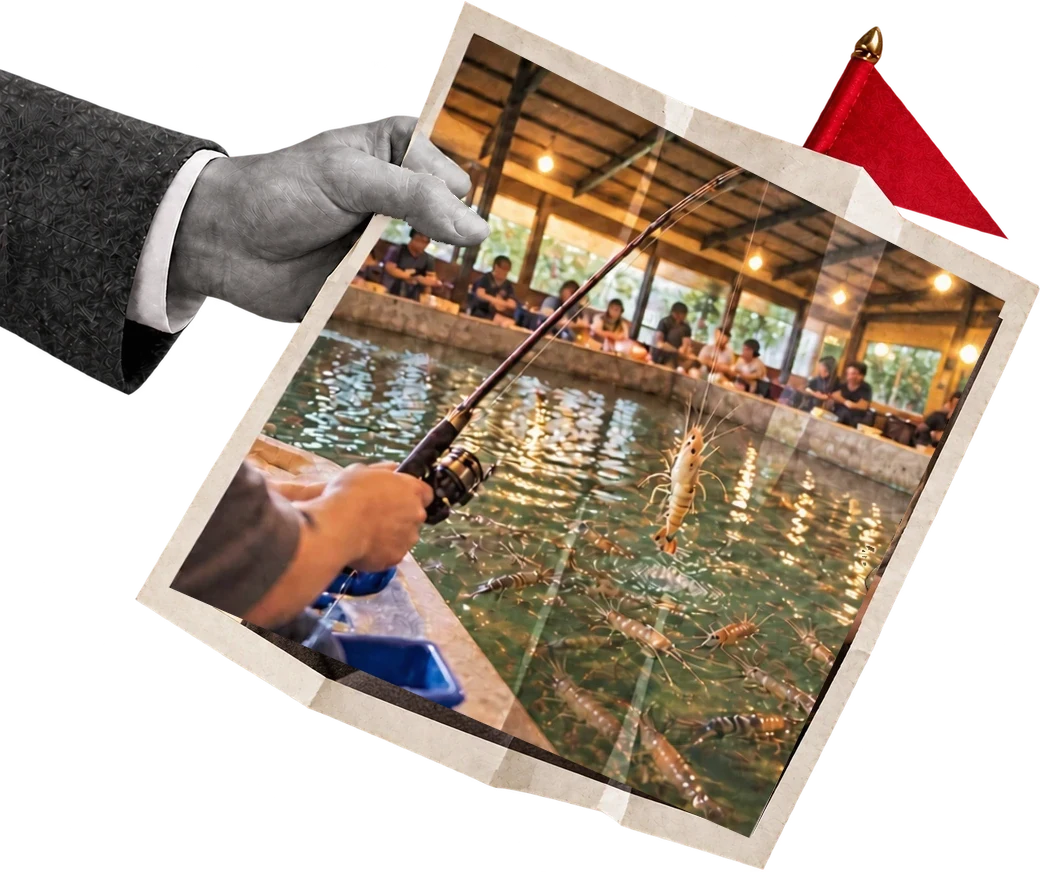
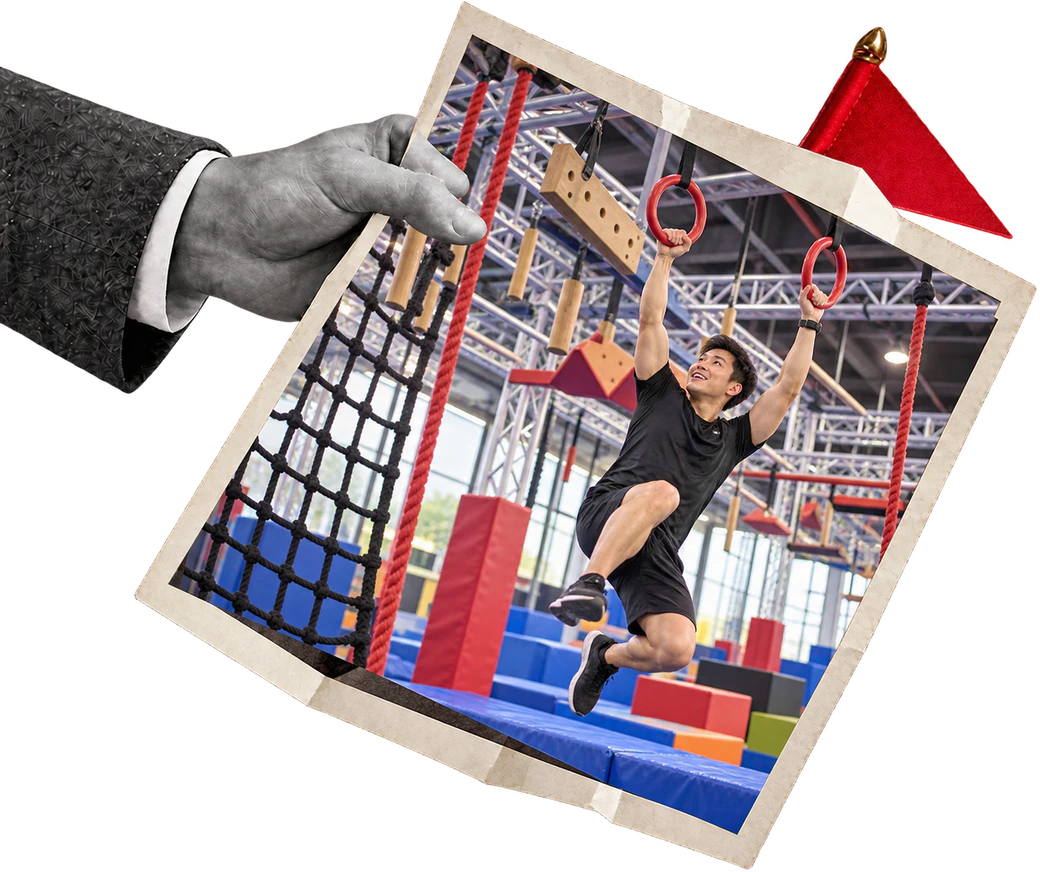
Update outing venues, artwork, and reviews

diff --git a/components/trip-showdown.tsx b/components/trip-showdown.tsx
@@ -24,7 +24,7 @@ import VotePlanSummary from "./vote-plan-summary";
 import StoreLinks from "./store-links";
 import VenueReviews from "./venue-reviews";
 import VillagerBook from "./villager-book";
-import { lazerTreksStore, villagerStore, zhishanFishingStore } from "@/lib/store-references";
+import { goodFoodStore, lazerTreksStore, ninjaStore } from "@/lib/store-references";
 import OpeningAnimation from "./opening-animation";
 import OutingLoading from "./outing-loading";
 import { openingHistory } from "@/lib/opening-history";
@@ -47,7 +47,7 @@ import {
 const planLine = (plan?: TripPlan) => plan?.title.replaceAll("\n", "");
 
 const PLAN_ART = [
-  { photo: OPENING_IMAGES.photoA, feast: OPENING_IMAGES.feastA, word: "悠閒" },
+  { photo: OPENING_IMAGES.photoA, feast: OPENING_IMAGES.feastA, word: "極限" },
   { photo: OPENING_IMAGES.photoB, feast: OPENING_IMAGES.feastB, word: "熱血" },
 ];
 
@@ -110,7 +110,7 @@ export default function TripShowdown() {
   }, [selected?.code]);
 
   const venues = selected?.code === "A"
-    ? [zhishanFishingStore, villagerStore]
+    ? [ninjaStore, goodFoodStore]
     : selected?.code === "B" ? [lazerTreksStore] : [];
   const actualVote = user ? votes[user.uid] : null;
   const votingOpen = isVotingOpen(catalog, now);
@@ -178,7 +178,7 @@ export default function TripShowdown() {
     savedPlan: actualVote ? catalog.plans[actualVote.planId] : undefined, draftPlan: selected,
     hasChanges: voteSynced && !!selected && dirty.current && !unchangedVote });
   const voteActionLabel = unchangedVote ? "已投票 ✓" : voteChange === "switch" ? "確認改票" : voteChange === "details" ? "更新選擇" : "確認並投票";
-  const planNoteLabel = "備註";
+  const planNoteLabel = "簡要備註";
   const summary = [
     "姓名：" + (user?.displayName || ""),
     "主方案：" + (selected?.title || ""),
@@ -221,7 +221,7 @@ export default function TripShowdown() {
           onFinish={finishIntro}
           date={catalog.settings.eventDate.slice(5).replace("-", ".")}
           plans={[
-            plans[0]?.[1].shortName || "釣趣派",
+            plans[0]?.[1].shortName || "極限體能派",
             plans[1]?.[1].shortName || "熱血對戰派",
           ]}
         />
@@ -234,9 +234,9 @@ export default function TripShowdown() {
         <header className="show-hero" data-ready={introReady && !intro}>
           <div className="hero-field" aria-hidden="true"><i className="hero-field-a" /><i className="hero-field-b" /></div>
           <div className="hero-stage">
-            <p className="hero-team hero-team-a"><small className="sd-micro">TEAM A</small><strong>{plans[0]?.[1].shortName || "釣趣派"}</strong><span>{planLine(plans[0]?.[1]) || "釣蝦＋港點午餐"}</span></p>
+            <p className="hero-team hero-team-a"><small className="sd-micro">TEAM A</small><strong>{plans[0]?.[1].shortName || "極限體能派"}</strong><span>{planLine(plans[0]?.[1]) || "忍者闖關＋好食在食堂"}</span></p>
             <div className="hero-poster">
-              <img className="hero-poster-img" src={HERO_POSTER} width={2272} height={804} alt="兩位老闆對決：左邊釣蝦港點的釣趣派，右邊雷射槍戰下午茶的熱血對戰派" fetchPriority="high" />
+              <img className="hero-poster-img" src={HERO_POSTER} width={2272} height={804} alt="兩位老闆對決：左邊忍者闖關與好食在食堂的極限體能派，右邊雷射槍戰下午茶的熱血對戰派" fetchPriority="high" />
             </div>
             <p className="hero-team hero-team-b"><small className="sd-micro">TEAM B</small><strong>{plans[1]?.[1].shortName || "熱血對戰派"}</strong><span>{planLine(plans[1]?.[1]) || "雷射槍戰＋飯店下午茶"}</span></p>
           </div>
@@ -252,7 +252,7 @@ export default function TripShowdown() {
               <span>預計 {catalog.settings.expectedVoters} 人</span>
             </p>
             <p className="hero-copy">
-              <span className="hero-clause">到底是釣蝦吃港點聚餐吸引人，</span><span className="hero-clause">還是雷射團戰享用飯店 Buffet 令人嚮往？</span>
+              <span className="hero-clause">到底是忍者闖關後吃台菜聚餐吸引人，</span><span className="hero-clause">還是雷射團戰享用飯店 Buffet 令人嚮往？</span>
               <span className="hero-copy-cta">看完行程，選一個你最想去的方案。</span>
             </p>
             <div className="hero-actions" ref={heroActionsRef}>
@@ -351,7 +351,7 @@ export default function TripShowdown() {
                     {venues.map(venue => <div key={venue.id}><span>{venue.name}</span><StoreLinks store={venue} compact /><VenueReviews id={venue.id} tone={selected.color} /></div>)}
                   </div>}
                   {selected.code === "A" && <details className="menu-details" open={menuOpen} onToggle={event => setMenuOpen(event.currentTarget.open)}>
-                    <summary>翻看村民食堂菜色與平日午餐（點圖可放大）</summary>
+                    <summary>翻看好食在食堂菜色與菜單（點圖可放大）</summary>
                     <VillagerBook />
                   </details>}
                   {sortedGroups(selected).map(([groupId, group]) => (
@@ -368,13 +368,13 @@ export default function TripShowdown() {
                   ))}
                   <label className="note-field">
                     {planNoteLabel}（選填）
-                    <small>沒有特別需求可以留白，只有你與主辦人看得到。</small>
+                    <small>有健康狀況或餐點需求再填，沒有可留白。</small>
                     <textarea
                       maxLength={1000}
-                      rows={3}
+                      rows={2}
                       value={draft.note}
                       disabled={saving || !votingOpen}
-                      placeholder={draft.planId === "B" ? "例如：團體活動需留意的狀況，或餐點需求…" : "例如：釣蝦需要協助，或有餐點需求…"}
+                      placeholder={draft.planId === "B" ? "例如：需留意的健康狀況或餐點需求。" : "例如：膝蓋舊傷，需調整關卡。"}
                       onChange={(event) => edit({ note: event.target.value })}
                     />
                     <span>{draft.note.length} / 1000</span>
@@ -501,7 +501,7 @@ export default function TripShowdown() {
             <p className="footer-kicker"><span>SEE YOU ON</span><b>{catalog.settings.eventDate.slice(5).replace("-", ".")}</b></p>
             <div className="footer-stage">
               <div className="footer-ribbons" aria-hidden="true">
-                <CautionTape tone="ink" className="tape-upper" words={[plans[0]?.[1].shortName || "釣趣派", planLine(plans[0]?.[1]) || "釣蝦＋港點午餐", "TEAM A"]} />
+                <CautionTape tone="ink" className="tape-upper" words={[plans[0]?.[1].shortName || "極限體能派", planLine(plans[0]?.[1]) || "忍者闖關＋好食在食堂", "TEAM A"]} />
                 <CautionTape reverse className="tape-lower" words={[plans[1]?.[1].shortName || "熱血對戰派", planLine(plans[1]?.[1]) || "雷射槍戰＋飯店下午茶", "TEAM B"]} />
               </div>
               <ShowLogo className="footer-lockup" />

diff --git a/lib/default-catalog.ts b/lib/default-catalog.ts
@@ -11,34 +11,34 @@ export const defaultCatalog: Catalog = {
   plans: {
     A: {
       code: "A",
-      title: "釣蝦＋村民食堂",
-      shortName: "釣趣派",
-      category: "釣趣派",
+      title: "忍者闖關\n＋好食在食堂",
+      shortName: "極限體能派",
+      category: "極限體能派",
       description:
-        "先在室內輕鬆釣蝦、比比誰的收穫最好，再一起前往附近的村民食堂享用平日港點午餐。",
-      priceNote: "釣蝦 1 小時 $400 起・村民食堂 $720＋10%",
+        "先由教練帶領挑戰體能王關卡，再自由練習喜歡的項目，活動結束後步行前往附近的好食在食堂享用午餐。",
+      priceNote: "體能王包班 成人 $1,200／人（6 人起）・好食在食堂依現場消費",
       color: "yellow",
-      tags: ["室內行程", "輕鬆釣蝦", "港式點心", "聚餐聊天"],
+      tags: ["室內行程", "教練帶領", "忍者闖關", "聚餐聊天"],
       schedule: [
         {
           time: "10:00",
-          title: "至善釣蝦場集合",
-          description: "台北市士林區至善路三段 13 號，自行前往。",
+          title: "忍者館集合",
+          description: "台北市信義區基隆路一段 25 號 1 樓，自行前往。",
         },
         {
-          time: "10:00–11:30",
-          title: "釣蝦體驗",
-          description: "釣蝦約 1.5 小時，輕鬆同樂。",
+          time: "10:00–12:00",
+          title: "體能王包班",
+          description: "90 分鐘教練教學與闖關，最後 30 分鐘自由練習。",
         },
         {
-          time: "11:30",
-          title: "準備前往餐廳",
-          description: "由釣蝦場出發前往附近用餐。",
+          time: "12:00",
+          title: "步行前往餐廳",
+          description: "從忍者館步行前往附近的好食在食堂。",
         },
         {
           time: "午餐",
-          title: "村民食堂・廚窗港點",
-          description: "士林官邸店，台北市士林區福林路 188 號；平日午餐享用港式點心。",
+          title: "好食在食堂",
+          description: "台北市松山區基隆路一段 8 號，一起享用午餐、輕鬆聊天。",
         },
       ],
       groups: {},

diff --git a/components/opening-animation.tsx b/components/opening-animation.tsx
@@ -281,12 +281,12 @@ export default function OpeningAnimation({onFinish, plans, date = "10.29"}: {onF
     </OpeningSplash>}
     <div ref={stageRef} className="film-stage" data-scene={step} data-playing={started} data-buffering={bufferedAt.current !== null} aria-hidden="true">
       <div className="prepaint">{Object.values(IMG).map(src => <Cut key={src} src={src} />)}</div>
-      {step === 1 && <Shot at={CUES[1]} className="shot-glyph glyph-white"><b>悠</b></Shot>}
-      {step === 3 && <Shot at={CUES[3]} className="shot-glyph glyph-blue"><b>閒</b></Shot>}
+      {step === 1 && <Shot at={CUES[1]} className="shot-glyph glyph-white"><b>極</b></Shot>}
+      {step === 3 && <Shot at={CUES[3]} className="shot-glyph glyph-blue"><b>限</b></Shot>}
       {step === 4 && <Shot at={CUES[4]} className="shot-host host-a sd-field-blue">
         <Cut src={IMG.hostA} className="host sd-cutout" />
         <Glitch src={IMG.hostA} />
-        <div className="host-word"><strong>悠<br />閒</strong><span className="sd-micro sd-vertical">LEISURE</span></div>
+        <div className="host-word"><strong>極<br />限</strong><span className="sd-micro sd-vertical">EXTREME</span></div>
         <span className="host-team sd-micro">TEAM A — {plans[0]}</span>
         <Cross />
         <i className="x-wipe" />
@@ -303,7 +303,7 @@ export default function OpeningAnimation({onFinish, plans, date = "10.29"}: {onF
       {step === 7 && <Shot at={CUES[7]} className="shot-split split-play">
         <Split a={<Cut src={IMG.photoA} className="prop sd-cutout" />} b={<Cut src={IMG.photoSwap} className="prop sd-cutout" />}>
           <Cut src={IMG.handB} className="prop prop-hand sd-cutout" />
-          <span className="split-word word-top"><span className="split-word-mask"><span>FISHING</span></span></span>
+          <span className="split-word word-top"><span className="split-word-mask"><span>NINJA</span></span></span>
           <span className="split-word word-bottom"><span className="split-word-mask"><span>BATTLE</span></span></span>
         </Split>
       </Shot>}

diff --git a/lib/store-directory.ts b/lib/store-directory.ts
@@ -1,4 +1,4 @@
-import { lazerTreksStore, massageStore, restaurantStores, villagerStore, zhishanFishingStore, type StoreInfo } from "./store-references";
+import { goodFoodStore, lazerTreksStore, massageStore, ninjaStore, restaurantStores, villagerStore, zhishanFishingStore, type StoreInfo } from "./store-references";
 import { massageReviews, type StoreReviewSnapshot } from "./store-reviews";
 import restaurantReviews from "./restaurant-review-snapshots.json";
 import itineraryReviews from "./itinerary-review-snapshots.json";
@@ -6,7 +6,7 @@ import itineraryReviews from "./itinerary-review-snapshots.json";
 export type StoreRecord = { info: StoreInfo; reviews?: StoreReviewSnapshot; updatedAt?: number };
 export type StoreDirectory = Record<string, StoreRecord>;
 export const activeReviewStoreIds = [
-  "zhishan-shrimp-fishing", "villager-shilin", "lazertreks-taipei",
+  "gymefit-ninja-keelung", "good-food-keelung", "lazertreks-taipei",
   "le-cafe", "brasserie", "grand-hotel-garden",
 ] as const;
 const currentItineraryReviewCutoff = Date.parse("2026-09-30T16:00:00.000Z");
@@ -15,7 +15,7 @@ export function isCurrentItineraryReview(snapshot: StoreReviewSnapshot | undefin
 }
 const seeds: Record<string, StoreReviewSnapshot> = { ...restaurantReviews, ...itineraryReviews, [massageStore.id]: massageReviews };
 export const defaultStoreDirectory: StoreDirectory = Object.fromEntries(
-  [...restaurantStores, zhishanFishingStore, villagerStore, lazerTreksStore, massageStore].map(store => {
+  [...restaurantStores, zhishanFishingStore, villagerStore, ninjaStore, goodFoodStore, lazerTreksStore, massageStore].map(store => {
     const { id, name, mapsQuery, branch, website, facebook, line } = store;
     const info: StoreInfo = { id, name, mapsQuery };
     for (const [key, value] of Object.entries({ branch, website, facebook, line })) if (value) Object.assign(info, { [key]: value });

diff --git a/components/villager-book.tsx b/components/villager-book.tsx
@@ -1,27 +1,31 @@
 import ImageLightbox, { type MenuPage } from "./image-lightbox";
 
-// Screenshots supplied for this outing show the restaurant's gallery, dish page,
-// and Shilin weekday-lunch price card. Keep the price card intact for zooming.
+// Photos supplied for this outing show the restaurant, signature dishes, and menu.
 const pages: readonly [MenuPage, ...MenuPage[]] = [
   {
-    src: "/assets/villager-gallery.png",
-    alt: "村民食堂官網相簿，包含港點、甜品、廚師料理與店內照片",
-    title: "菜色與店內相簿",
+    src: "/assets/good-food-menu.webp",
+    alt: "好食在食堂菜單與單點價格",
+    title: "店內菜單",
   },
   {
-    src: "/assets/villager-dish.png",
-    alt: "村民食堂官網菜色頁的港式蘿蔔糕照片",
-    title: "官網菜色照片",
+    src: "/assets/good-food-sashimi.webp",
+    alt: "好食在食堂綜合生魚片拼盤",
+    title: "綜合生魚片",
   },
   {
-    src: "/assets/villager-weekday-lunch-pricing.png",
-    alt: "士林官邸店官網價目圖：平日午餐 11:00 至 14:00，720 元另加一成服務費，供餐至 13:45，用餐 2 小時",
-    title: "士林平日午餐資訊",
+    src: "/assets/good-food-chicken.webp",
+    alt: "好食在食堂白斬雞拼盤",
+    title: "招牌白斬雞",
+  },
+  {
+    src: "/assets/good-food-storefront.webp",
+    alt: "好食在食堂基隆路店面入口",
+    title: "店面外觀",
   },
 ];
 
 export default function VillagerBook() {
   return <div className="villager-book">
-    <ImageLightbox pages={pages} bookLabel="村民食堂菜色與平日午餐圖冊" heading="村民食堂 · 菜色與午餐" pageLabel="圖頁" />
+    <ImageLightbox pages={pages} bookLabel="好食在食堂菜色與菜單圖冊" heading="好食在食堂 · 菜色與菜單" pageLabel="圖頁" />
   </div>;
 }

diff --git a/lib/store-references.ts b/lib/store-references.ts
@@ -43,6 +43,23 @@ export const villagerStore: StoreInfo = {
   website: "https://villager.com.tw/",
 };
 
+export const ninjaStore: StoreInfo = {
+  id: "gymefit-ninja-keelung",
+  name: "GYMEFIT Ninja 忍者館",
+  branch: "台北市信義區基隆路一段 25 號 1 樓",
+  mapsQuery: "GYMEFIT Ninja 台北市信義區基隆路一段25號1樓",
+  mapsUrl: "https://www.google.com/maps/place/data=!4m2!3m1!1s0x3442aba06778a613:0x199d0dbefac7de8d",
+  website: "https://gymefit.tw/ninja/%E9%97%9C%E5%8D%A1%E4%BB%8B%E7%B4%B9/7725",
+};
+
+export const goodFoodStore: StoreInfo = {
+  id: "good-food-keelung",
+  name: "好食在食堂",
+  branch: "台北市松山區基隆路一段 8 號",
+  mapsQuery: "好食在食堂 台北市松山區基隆路一段8號",
+  mapsUrl: "https://www.google.com/maps/place/data=!4m2!3m1!1s0x3442ab9738831bdd:0x2cde9859f73362af",
+};
+
 export const lazerTreksStore: StoreInfo = {
   id: "lazertreks-taipei",
   name: "六度空間 雷射槍戰（LazerTreks）",

diff --git a/lib/opening-assets.ts b/lib/opening-assets.ts
@@ -11,5 +11,5 @@ export const OPENING_IMAGES = {
 } as const;
 
 export const OPENING_SCORE = "/assets/autumn-opening-score.m4a?v=2";
-// The hero poster with a built-in soft margin (see show-poster.webp for the original picture).
-export const HERO_POSTER = "/assets/show-poster-ext.webp";
+// Keep one project asset as the single source of truth for the current hero poster.
+export const HERO_POSTER = "/assets/show-poster.png";
